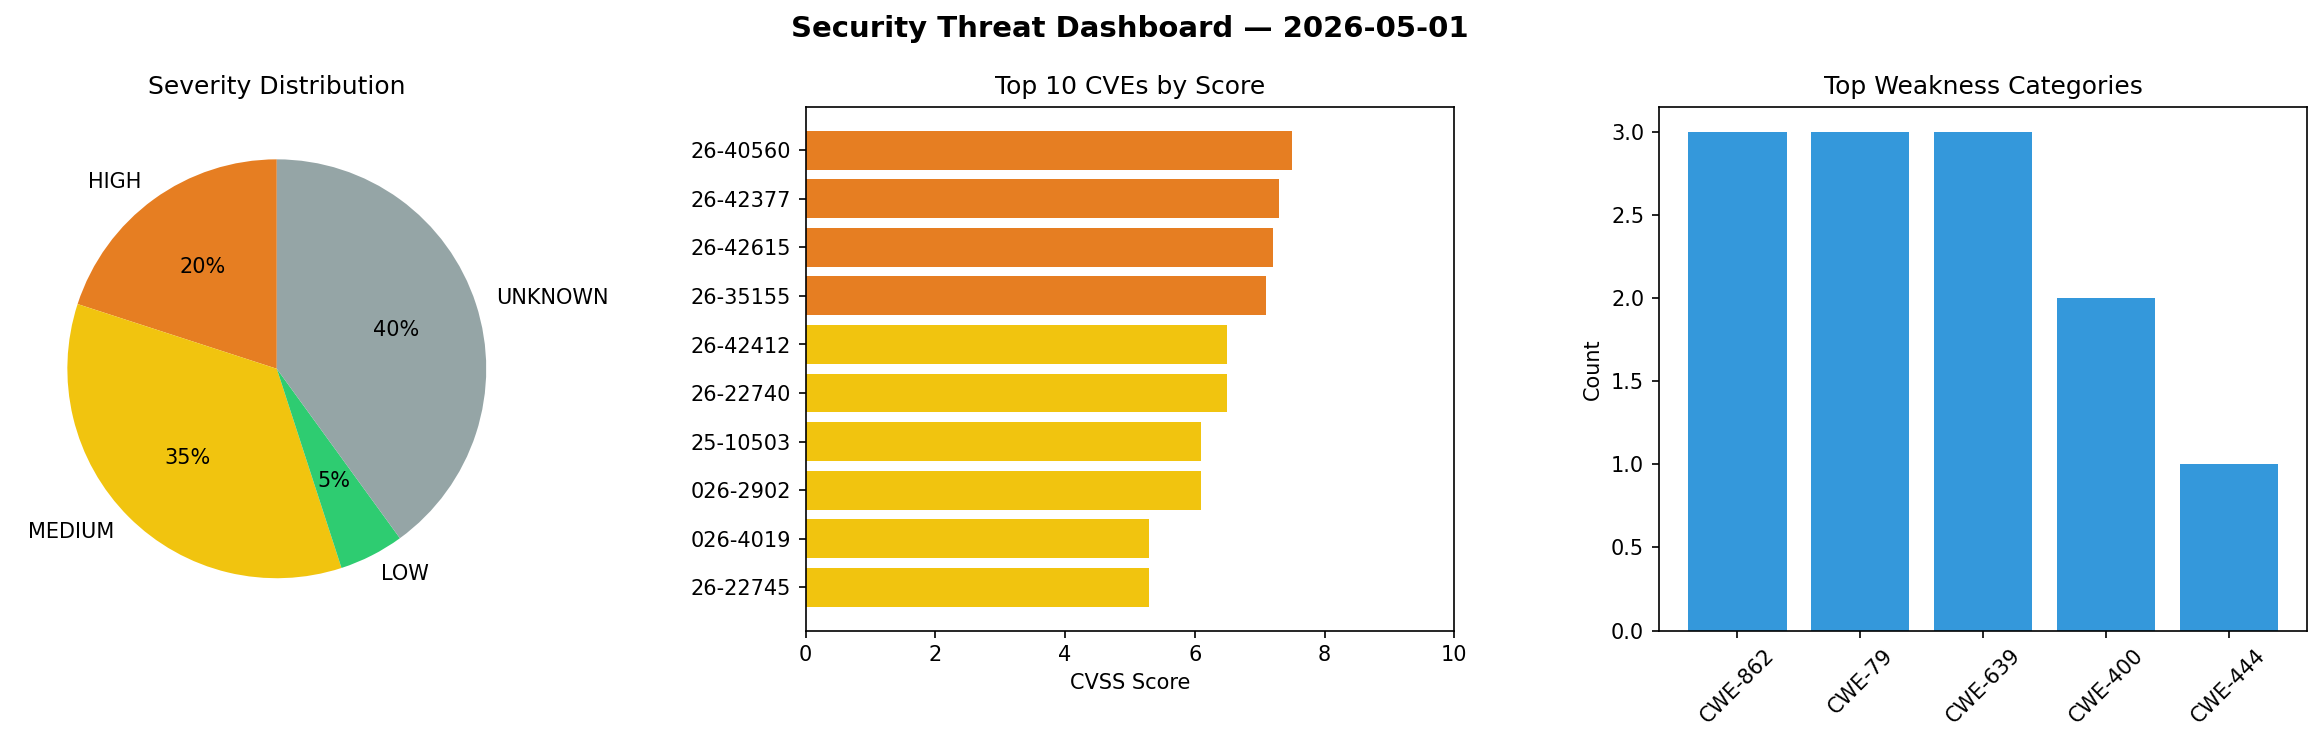
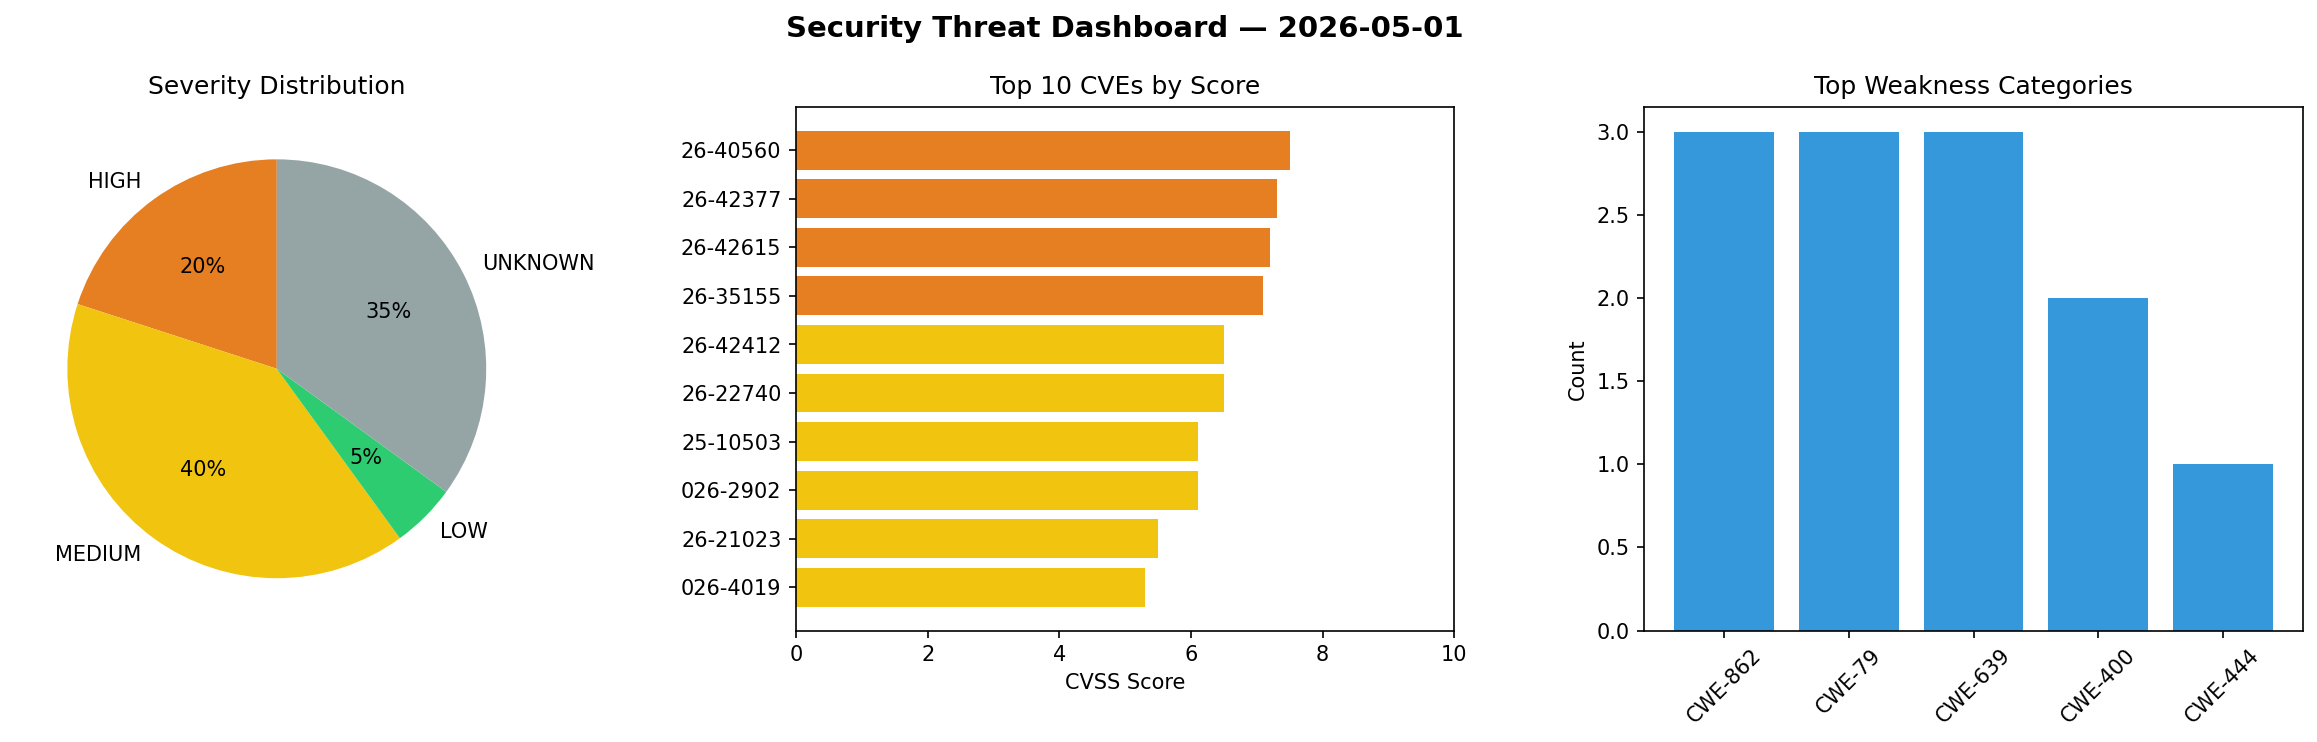
daily-experiments: security scan 2026-05-01T21:11

diff --git a/logs/2026-05-01.md b/logs/2026-05-01.md
@@ -1,6 +1,6 @@
 # Security Scan Report — 2026-05-01
 
-**Scan ID:** `0bac29dc09` | **CVEs:** 20 | **Threat Index:** 170.6
+**Scan ID:** `a5a09e16ee` | **CVEs:** 20 | **Threat Index:** 181.6
 
 ![Dashboard](2026-05-01_dashboard.png)
 
@@ -10,19 +10,19 @@
 
 | Metric | Value |
 |--------|-------|
-| Threat Index | 170.6 |
+| Threat Index | 181.6 |
 | Critical CVEs | 0 |
 | HIGH | 4 |
-| MEDIUM | 7 |
+| MEDIUM | 8 |
 | LOW | 1 |
-| UNKNOWN | 8 |
+| UNKNOWN | 7 |
 
 ## Delta vs Yesterday
 
 | Metric | Today | Yesterday | Change |
 |--------|-------|-----------|--------|
 | total_cves | 20 | 20 | ➡ 0.0% |
-| threat_index | 170.6 | 321.2 | 📉 -46.9% |
+| threat_index | 181.6 | 321.2 | 📉 -43.5% |
 | critical_count | 0 | 1 | 📉 -100.0% |
 
 ## Top Weakness Categories
@@ -47,10 +47,10 @@
 | CVE-2026-22740 | 6.5 | MEDIUM | A WebFlux server application that processes multipart requests creates temp file... |
 | CVE-2025-10503 | 6.1 | MEDIUM | The authentication endpoint accepts user-supplied input without enforcing expect... |
 | CVE-2026-2902 | 6.1 | MEDIUM | The WP Meteor Website Speed Optimization Addon plugin for WordPress is vulnerabl... |
+| CVE-2026-21023 | 5.5 | MEDIUM | Insufficient verification of data authenticity in PackageManagerService prior to... |
 | CVE-2026-4019 | 5.3 | MEDIUM | The Complianz – GDPR/CCPA Cookie Consent plugin for WordPress is vulnerable to u... |
 | CVE-2026-22745 | 5.3 | MEDIUM | Spring MVC and WebFlux applications are vulnerable to Denial of Service attacks ... |
 | CVE-2026-23773 | 4.3 | MEDIUM | Dell Disk Library for Mainframe, version(s) DLm 8700/2700 contain(s) a Server-Si... |
 | CVE-2026-22741 | 3.1 | LOW | Spring MVC and WebFlux applications are vulnerable to cache poisoning when resol... |
-| CVE-2026-21023 | 0.0 | UNKNOWN | Insufficient verification of data authenticity in PackageManagerService prior to... |
 | CVE-2026-3325 | 0.0 | UNKNOWN | SQL injection (SQLi) in MegaCMS v12.0.0, specifically in the “id_territorio” par... |
 | CVE-2026-42513 | 0.0 | UNKNOWN | This vulnerability exists in e-Sushrut due to improper authentication logic that... |
